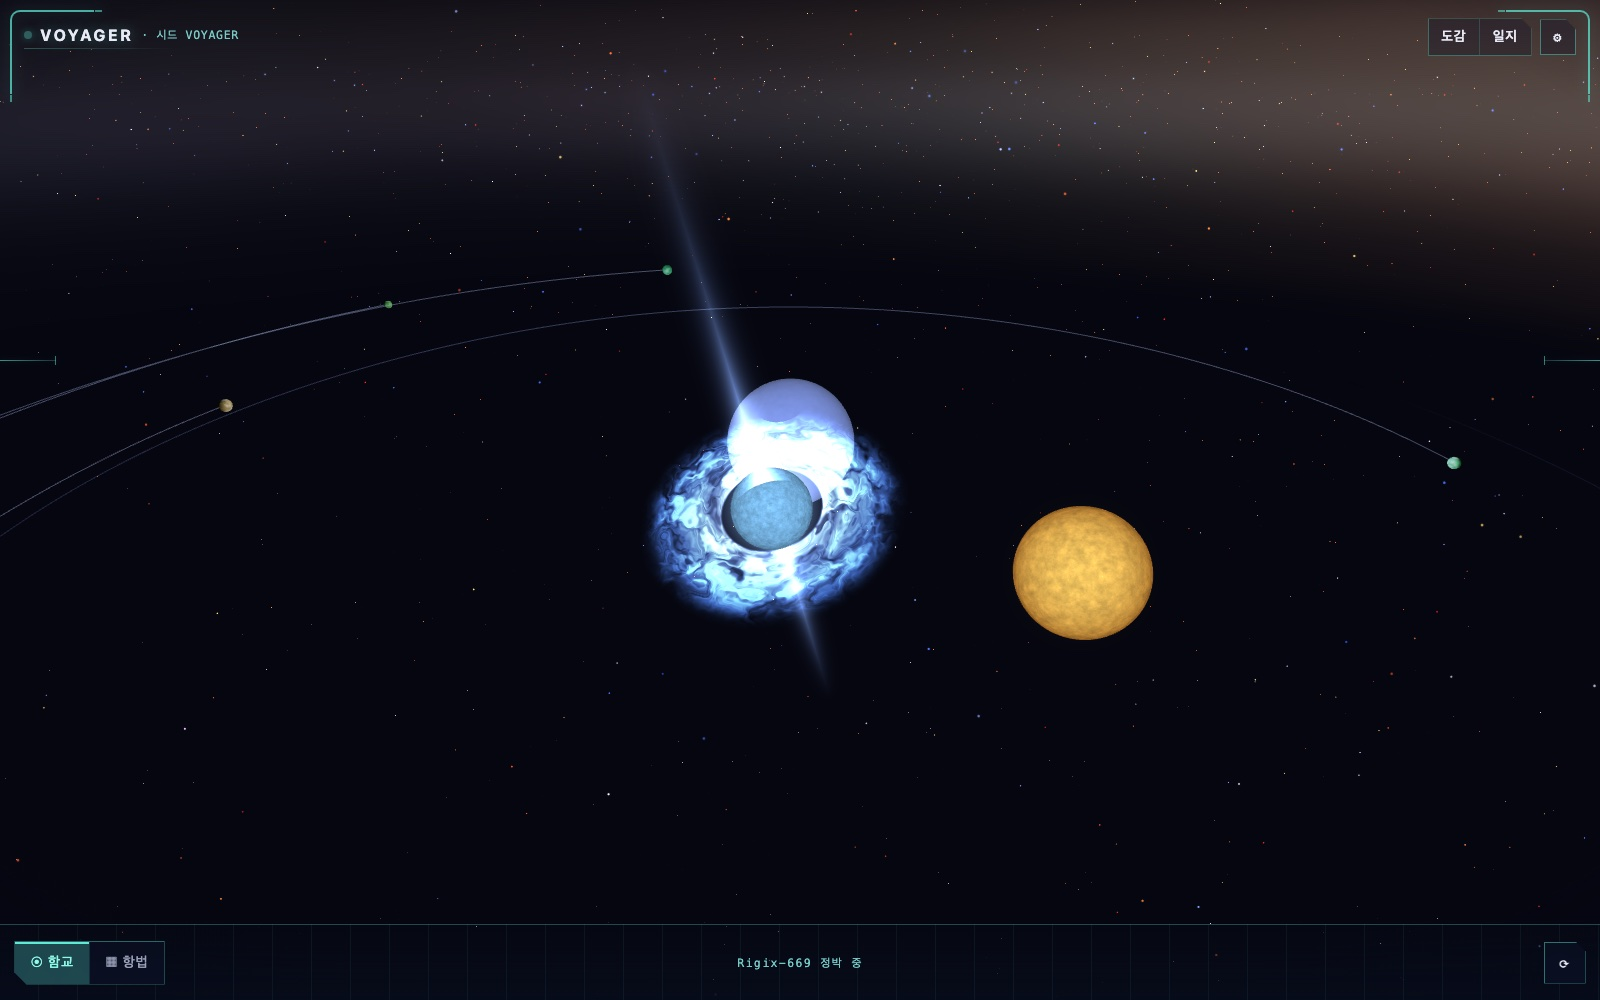
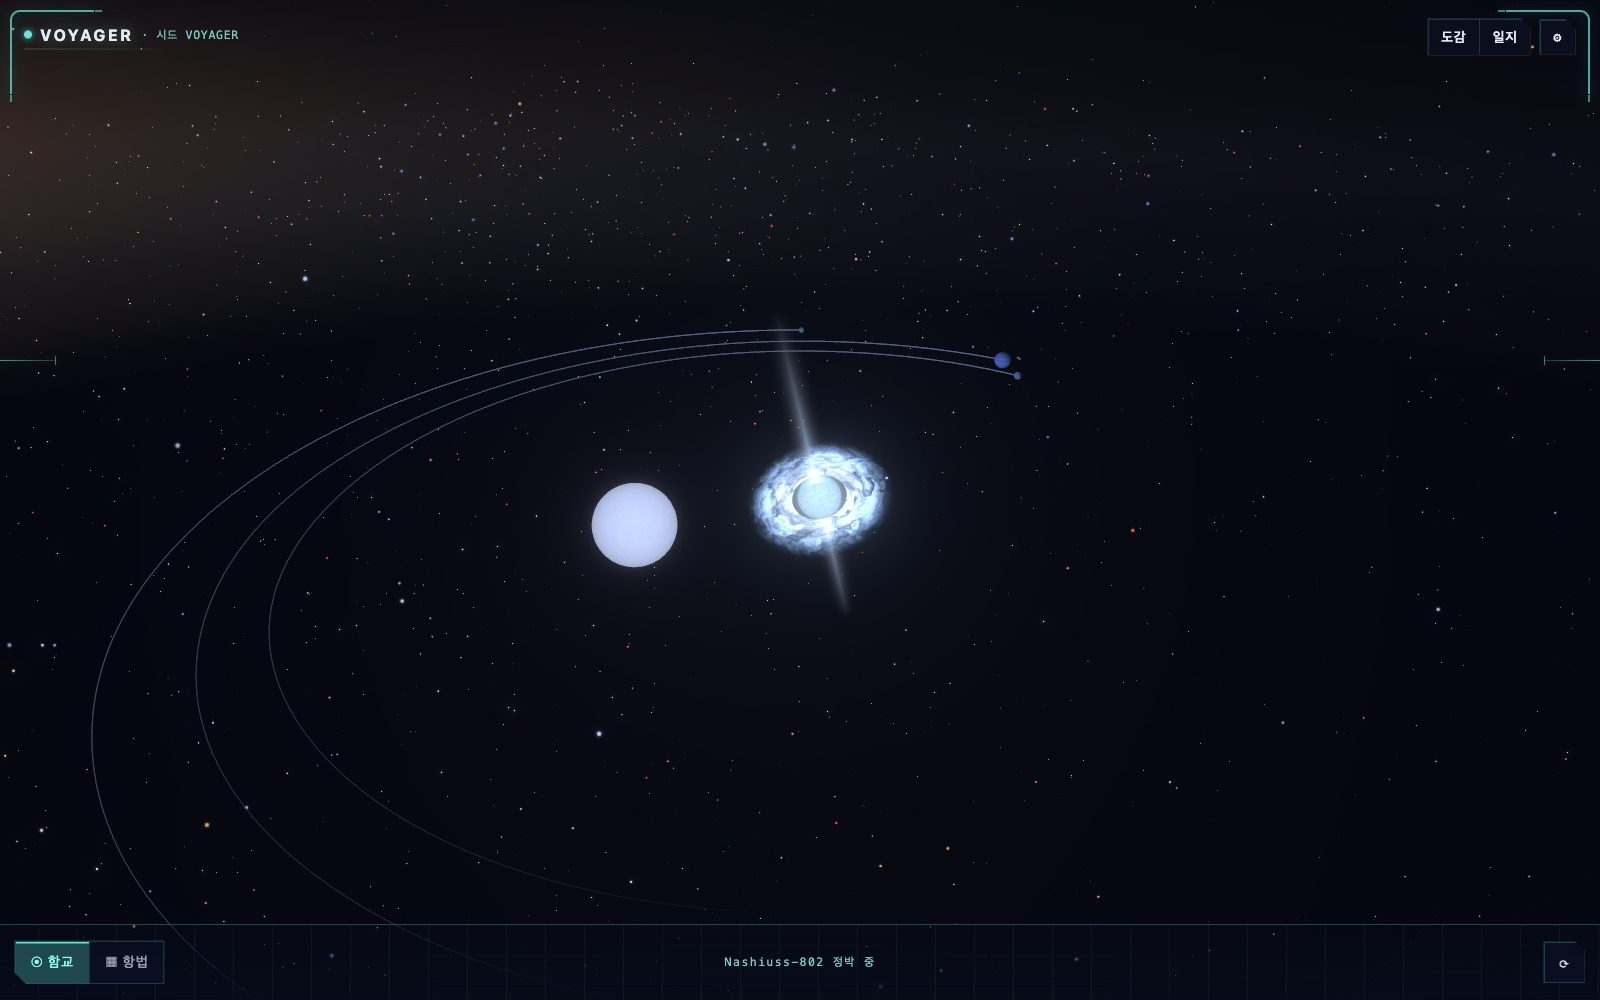
fix: 펄서 동반성 소용돌이 관통 수정 · README 이색천체 스샷 교체 (#45)
* fix: 펄서 근접 동반성이 자기권 소용돌이에 박히는 문제 수정

primaryClearance가 블랙홀만 강착원반 외곽까지 회피 반경을 넓히고
펄서는 본체 반경(2.1)만 써서, 소용돌이 외곽(7.35)보다 안쪽(~7.5)에
근접 동반성이 배치돼 난류 셰이더에 파묻혀 보였다. 펄서 분기를 추가해
소용돌이 외곽(×3.5)까지 비운다 — 렌더 전용, GEN_VERSION 무관.

* docs: README 이색 천체 스크린샷 교체 — 블랙홀 Zubulan-383·펄서 쌍성 Nashiuss-802

블랙홀은 배경 먼지 덩어리가 화면을 덮던 Lyro-509 대신 먼지 띠가
비스듬히 흐르는 Zubulan-383으로, 펄서는 삼중성 Rigix-669 대신
관측 사례가 실재하는 펄서+A형 쌍성 Nashiuss-802로 교체 (삼중성
펄서는 PSR J0337+1715 단 1건, 그마저 동반이 모두 백색왜성).

---------

diff --git a/src/scenes/system/multiplicity.ts b/src/scenes/system/multiplicity.ts
@@ -2,7 +2,7 @@ import { Vector3 } from 'three'
 
 import type { Companion, SpectralClass, Star, StarKind } from '@/engine'
 import { uniqueSystemOf } from '@/engine'
-import { kindRadiusFactor } from '@/scenes/system/exotic'
+import { kindRadiusFactor, PULSAR_DISK_OUTER_FACTOR } from '@/scenes/system/exotic'
 import { G_RENDER } from '@/scenes/system/orbitIntegrator'
 
 /**
@@ -88,9 +88,12 @@ const WIND_BH_DISK_FACTOR = 11
 /**
  * 주성의 충돌·궤도 회피 유효 반경 — 블랙홀은 강착원반 외곽까지. 아케론(disk_bh)은 원반이
  * 작아(rs×11) 반성이 더 가까이 돌 수 있다 — 원반 크기와 클리어런스의 단일 정합.
+ * 펄서는 자기권 소용돌이 외곽(PULSAR_DISK_OUTER_FACTOR)까지 — 본체 반경만 쓰면 근접
+ * 동반성이 소용돌이 난류 안에 박혀 보인다 (README 펄서 스샷 피드백 2026-07-11).
  */
 function primaryClearance(star: Star): number {
   const visual = renderedRadius(star.spectral, true, star.kind)
+  if (star.kind === 'pulsar') return visual * PULSAR_DISK_OUTER_FACTOR
   if (star.kind !== 'black_hole') return visual
   const diskFactor =
     uniqueSystemOf(star.id)?.id === 'disk_bh' ? WIND_BH_DISK_FACTOR : BLACK_HOLE_DISK_FACTOR

diff --git a/README.md b/README.md
@@ -9,17 +9,17 @@
 > [실제 빌드](https://voyager-ii.vercel.app/)의 그 좌표로 바로 접속해 직접 둘러볼 수 있어요 —
 > 같은 좌표는 누구에게나 같은 모습입니다.
 
-<a href="https://voyager-ii.vercel.app/?seed=VOYAGER&star=0:-1:2:3">
-  <img src="docs/images/blackhole.jpg" alt="중력 렌즈 블랙홀 Lyro-509 — 강착원반과 포톤 링" />
+<a href="https://voyager-ii.vercel.app/?seed=VOYAGER&star=2:1:2:0">
+  <img src="docs/images/blackhole.jpg" alt="중력 렌즈 블랙홀 Zubulan-383 — 강착원반과 포톤 링" />
 </a>
 
-<sub>🕳 <b>Lyro-509</b> · 블랙홀 — 실시간 셰이더로 그린 강착원반·포톤 링. <a href="https://voyager-ii.vercel.app/?seed=VOYAGER&star=0:-1:2:3">▶ 이 항성계 접속</a></sub>
+<sub>🕳 <b>Zubulan-383</b> · 블랙홀 — 실시간 셰이더로 그린 강착원반·포톤 링. <a href="https://voyager-ii.vercel.app/?seed=VOYAGER&star=2:1:2:0">▶ 이 항성계 접속</a></sub>
 
-<a href="https://voyager-ii.vercel.app/?seed=VOYAGER&star=-3:1:1:2">
-  <img src="docs/images/pulsar.jpg" alt="펄서 Rigix-669 — 상대론적 제트와 청색 자기권 소용돌이" />
+<a href="https://voyager-ii.vercel.app/?seed=VOYAGER&star=3:3:1:0">
+  <img src="docs/images/pulsar.jpg" alt="펄서 쌍성계 Nashiuss-802 — 상대론적 제트와 청색 자기권 소용돌이, A형 동반성" />
 </a>
 
-<sub>✦ <b>Rigix-669</b> · 펄서 — 회전하는 중성자성의 상대론적 쌍제트와 청색 자기권 소용돌이(난류 셰이더). <a href="https://voyager-ii.vercel.app/?seed=VOYAGER&star=-3:1:1:2">▶ 이 항성계 접속</a></sub>
+<sub>✦ <b>Nashiuss-802</b> · 펄서 쌍성계 — 회전하는 중성자성의 상대론적 쌍제트와 청색 자기권 소용돌이(난류 셰이더), A형 동반성. <a href="https://voyager-ii.vercel.app/?seed=VOYAGER&star=3:3:1:0">▶ 이 항성계 접속</a></sub>
 
 <table>
   <tr>